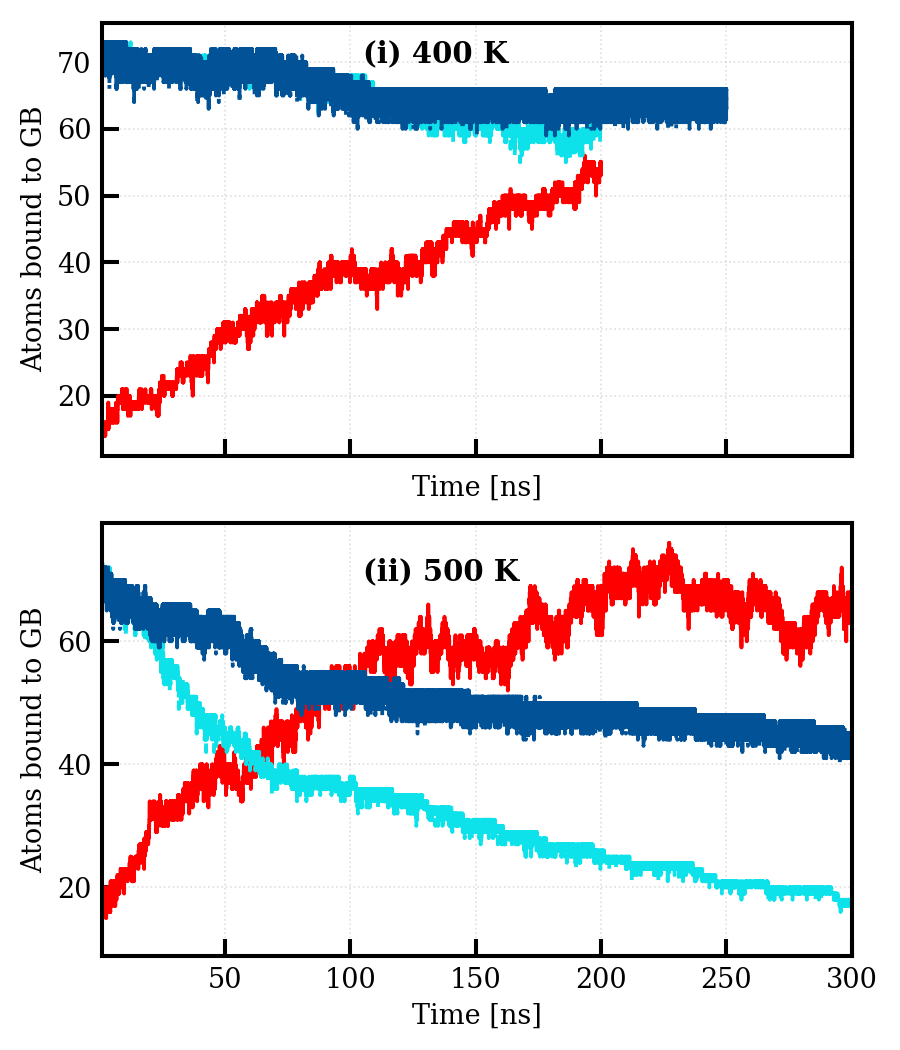
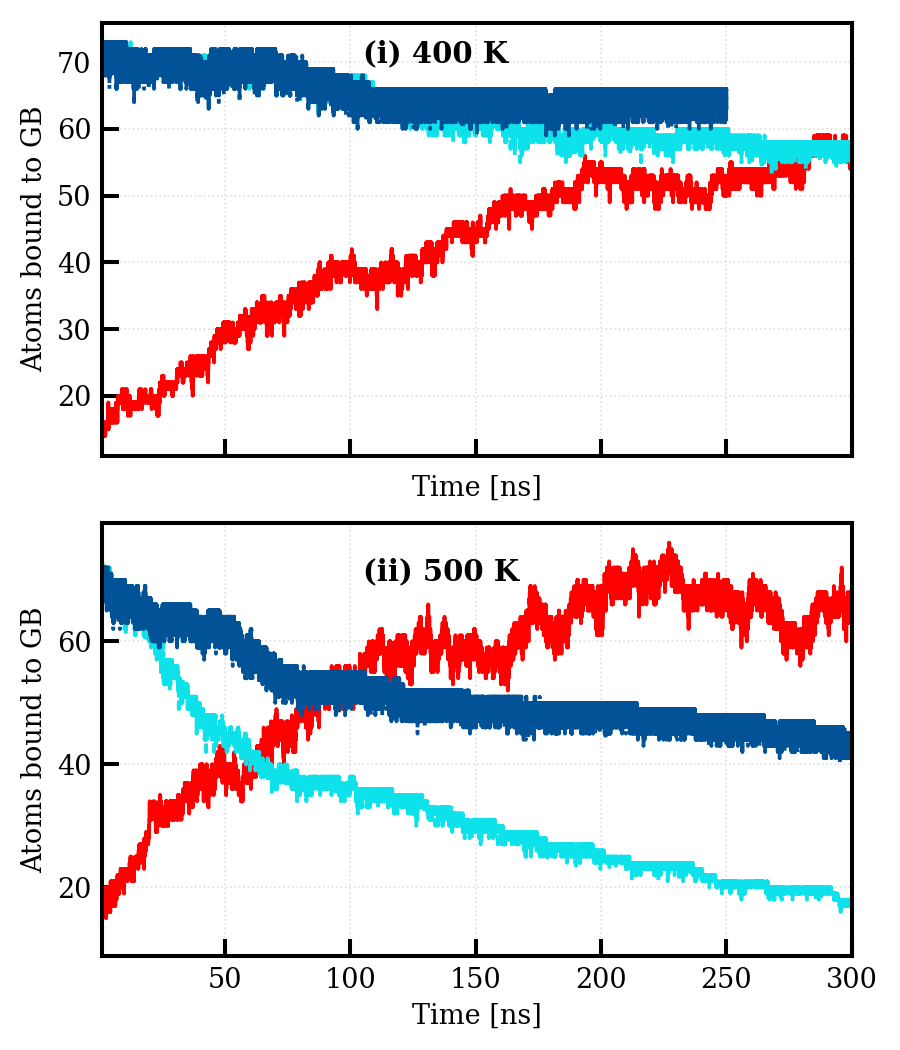
update GB plots

Changed region(s): [[0.6533, 0.1219, 0.9644, 0.2133]]

diff --git a/plotting-scripts/plot_GB_isoEx_comp.py b/plotting-scripts/plot_GB_isoEx_comp.py
@@ -9,10 +9,10 @@ from dataUtils import readData
 path += 'GB_3000W_isoEx_results/'
 
 # HinVac.out format: Timestep NTinVac NHinVac NTinCell
-tTH_isoEx_400K = readData(path+'yGB_3000W_100H_73T_400K_200ns/HinGB.out', [0,1,2])
+tTH_isoEx_400K = readData(path+'yGB_3000W_100H_73T_400K_400ns/HinGB.out', [0,1,2])
 tT_diff_400K = readData(path+'yGB_3000W_0H_73T_400K_250ns/HinGB.out', [0,1])
-tTH_isoEx_500K = readData(path+'yGB_3000W_100H_73T_500K_300ns/HinGB.out', [0,1,2])
-tT_diff_500K = readData(path+'yGB_3000W_0H_73T_500K_300ns/HinGB.out', [0,1])
+tTH_isoEx_500K = readData(path+'yGB_3000W_100H_73T_500K_400ns/HinGB.out', [0,1,2])
+tT_diff_500K = readData(path+'yGB_3000W_0H_73T_500K_400ns/HinGB.out', [0,1])
 
 # Convert timesteps --> time in ns
 cf = 1e-6
